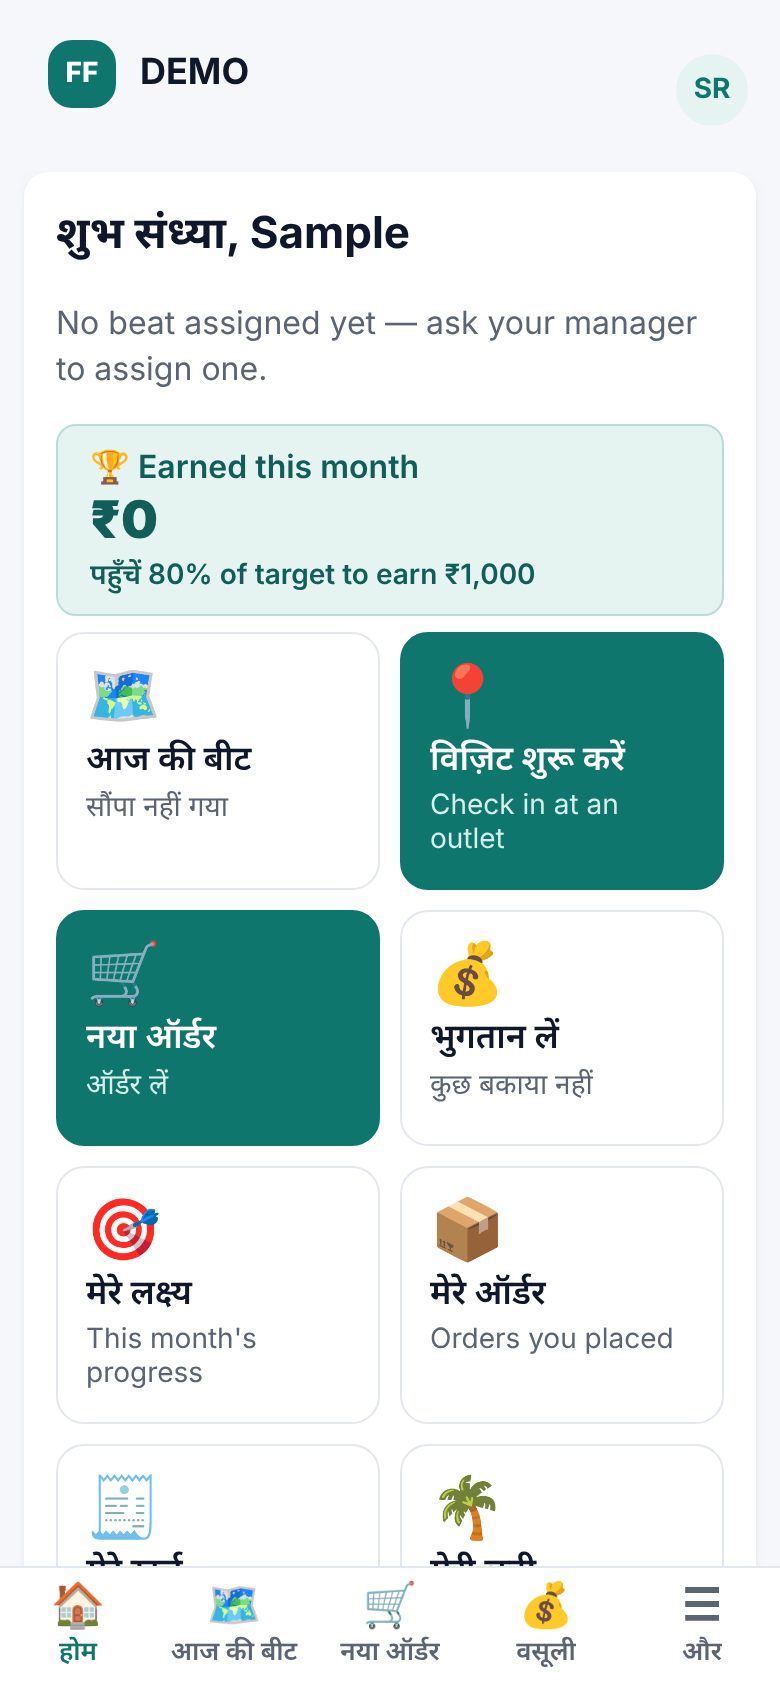
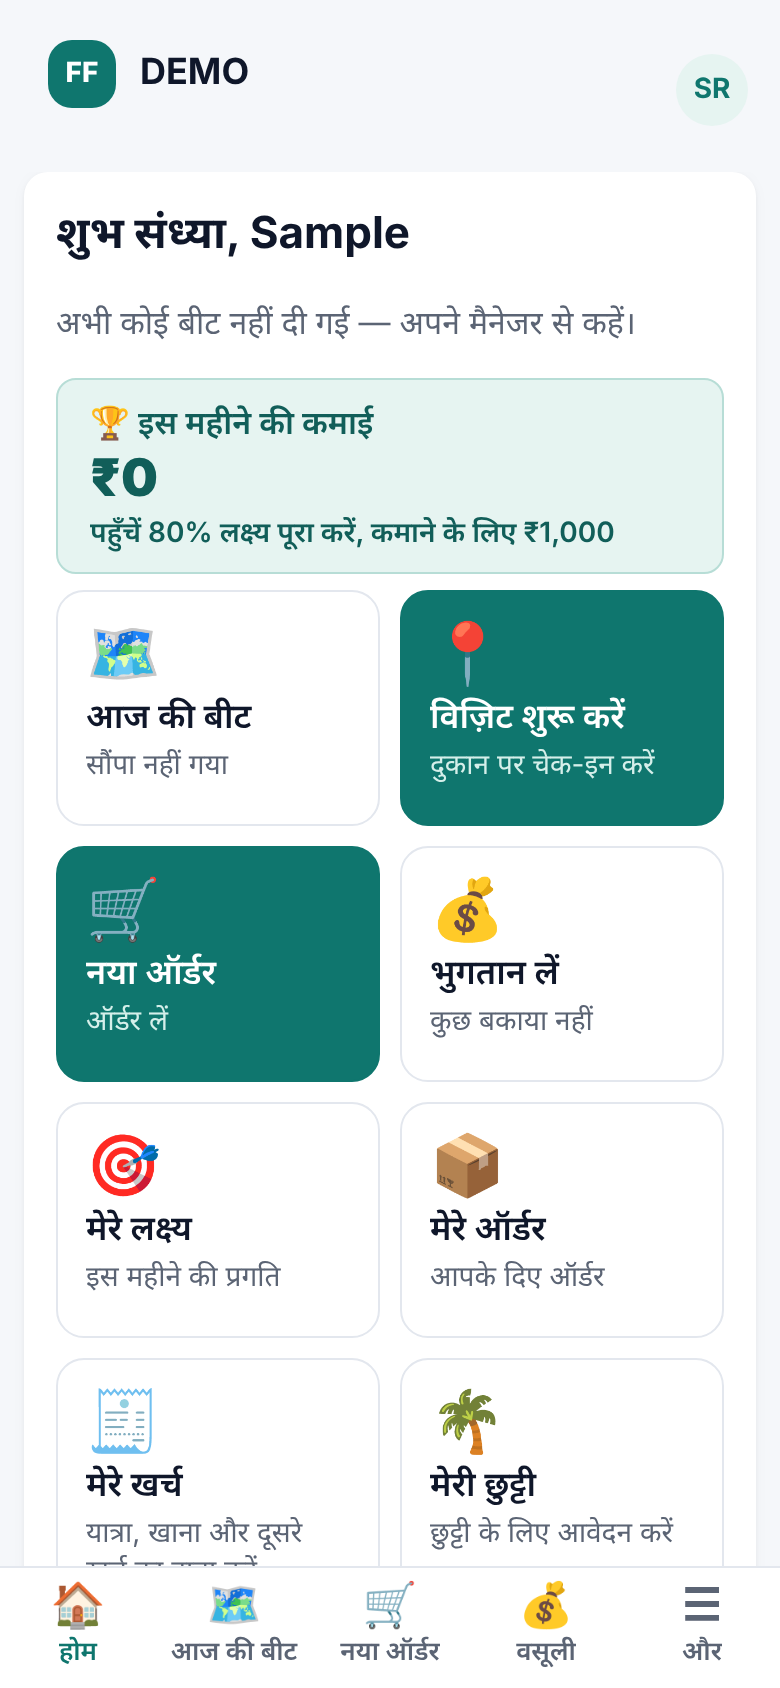
Hindi/Urdu: fix target line wording and home tiles; refresh phone screenshots

diff --git a/web/src/locales/README.md b/web/src/locales/README.md
@@ -34,6 +34,6 @@ Write in simple, everyday business words. Keep product and brand terms as they a
 | Sindhi · سنڌي | `sd` | RTL | 137 / 974 (14%) | beta |
 | Tamil · தமிழ் | `ta` | LTR | 137 / 974 (14%) | needs native review |
 | Telugu · తెలుగు | `te` | LTR | 137 / 974 (14%) | needs native review |
-| Urdu · اردو | `ur` | RTL | 169 / 974 (17%) | needs native review |
+| Urdu · اردو | `ur` | RTL | 173 / 974 (18%) | needs native review |
 
 Untranslated strings show in English. The menus, sign-in screen, common buttons and order/visit actions are covered first; long help texts and admin screens are mostly still English.
